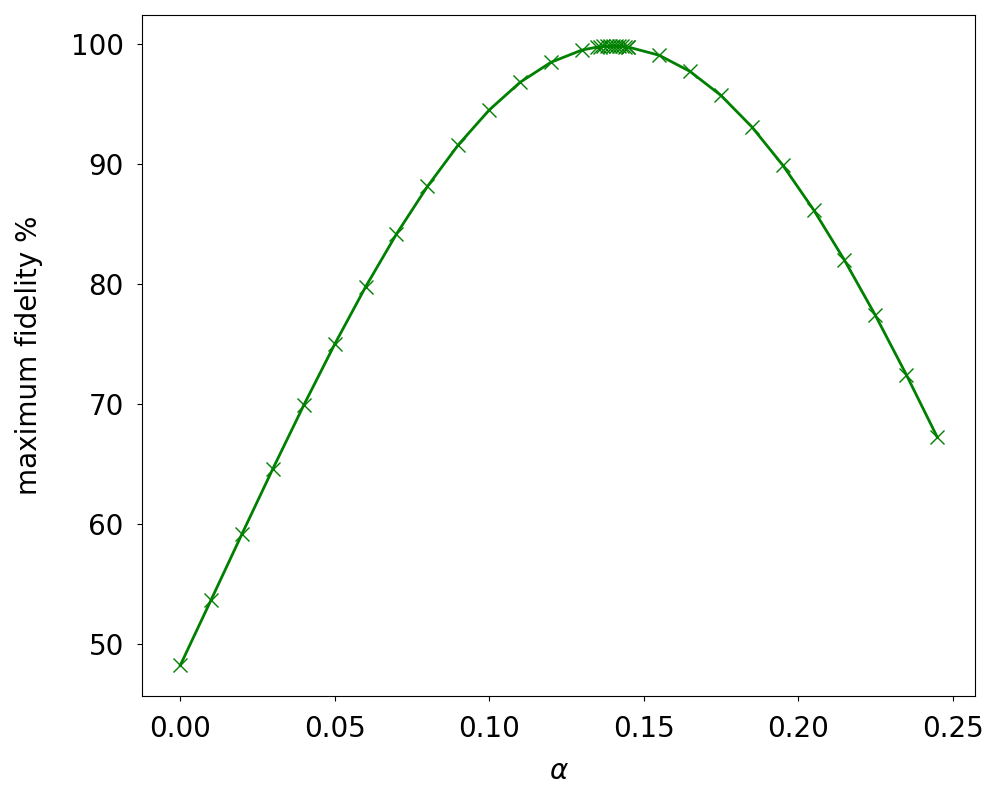
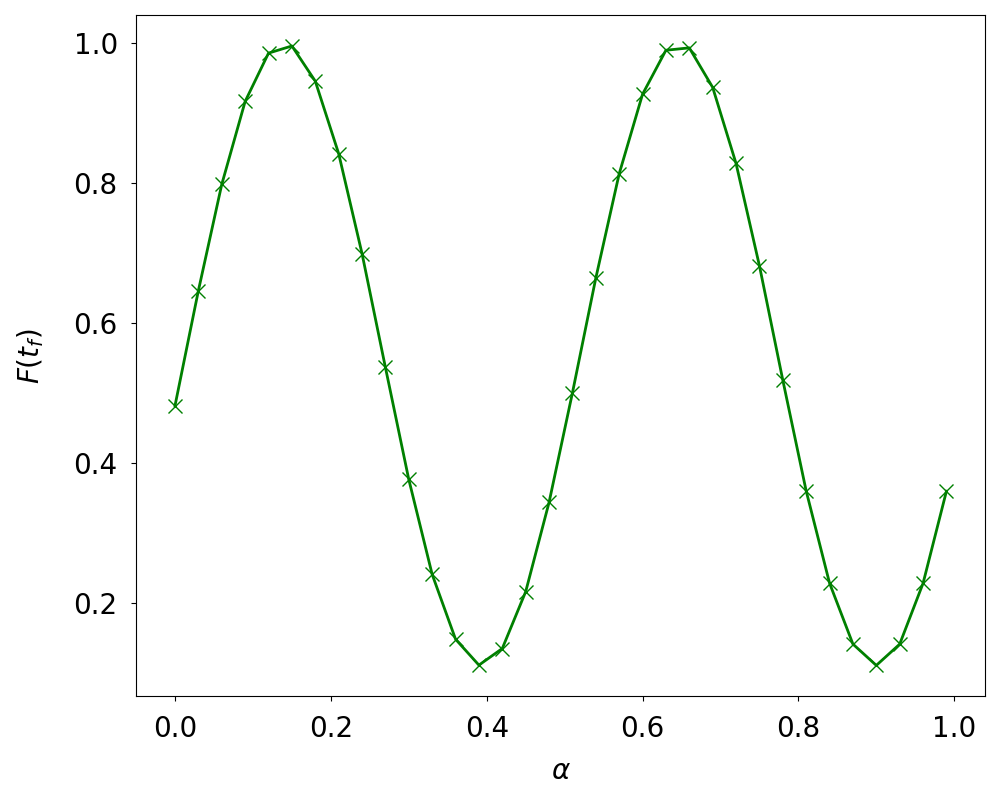
improving scaling benchmark

diff --git a/src/sites.py b/src/sites.py
@@ -25,25 +25,21 @@ with open("scaling2Excite.dat", "r") as f:
     for line in f:
         split = line.split()
         time2Excite.append(float(split[1]))
-with open("scaling3Excite.dat", "r") as f:
-    for line in f:
-        split = line.split()
-        time3Excite.append(float(split[1]))
 
 # Plot each line
-plt.plot(numSites, time1Excite, "-g^", ms=10, lw=2, label="1 excitation")
-plt.plot(numSites, time2Excite, "--b^", ms=10, lw=2, label="2 excitations")
-plt.plot(numSites, time3Excite, "-.r^", ms=10, lw=2, label="3 excitations")
+plt.plot(numSites, time1Excite, "-g^", ms=10, lw=2, label="1 excitation (left end to right end)")
+plt.plot(numSites, time2Excite, "--b^", ms=10, lw=2, label="2 excitations (both ends to both ends)")
 
 # Set the size of the axis ticks
 ax1.tick_params(axis='y', pad=10, labelsize=20)
 ax1.tick_params(axis='x', pad=10, labelsize=20)
 
 # Set the names of the axis labels
-plt.xlabel('number of sites', fontsize=20, color='black')
-plt.ylabel('time taken / s', fontsize=20, color='black')
-ax1.set_xlabel("number of sites", labelpad=10)
-ax1.set_ylabel("time taken / s", labelpad=20)
+plt.xlabel("", fontsize=20, color='black')
+plt.ylabel("", fontsize=20, color='black')
+plt.grid(True)
+ax1.set_xlabel("number of sites in linear chain", labelpad=10)
+ax1.set_ylabel("time taken to reach 95% fidelity / s", labelpad=20)
 
 # Add the legend
 l=legend(loc='upper left', ncol=1, fontsize=20)

diff --git a/src/alpha.py b/src/alpha.py
@@ -19,7 +19,7 @@ with open("eetest.dat", "r") as f:
     for line in f:
         split = line.split()
         alphas.append(float(split[0]))
-        fidsBefore.append(float(split[1][:-1]))
+        fidsBefore.append(float(split[1][:-1]) / 100.0)
         # fidsAfter.append(float(split[2][:-1]))
 
 # Plot each line
@@ -32,9 +32,9 @@ ax1.tick_params(axis='x', pad=10, labelsize=20)
 
 # Set the names of the axis labels
 plt.xlabel(r'$\alpha$', fontsize=20, color='black')
-plt.ylabel("maximum fidelity %", fontsize=20, color='black')
+plt.ylabel(r"$F(t_f)$", fontsize=20, color='black')
 ax1.set_xlabel(r"$\alpha$", labelpad=10)
-ax1.set_ylabel("maximum fidelity %", labelpad=20)
+ax1.set_ylabel(r"$F(t_f)$", labelpad=20)
 
 # Add the legend
 # l=legend(loc='lower right', ncol=1, fontsize=20)

diff --git a/src/scaling.py b/src/scaling.py
@@ -58,6 +58,7 @@ ax1.tick_params(axis='x', labelsize=20)
 # Set the names of the axis labels
 plt.xlabel('cores used', fontsize=20, color='black')
 plt.ylabel('speedup', fontsize=20, color='black')
+plt.grid(True)
 ax1.set_xlabel("cores used", labelpad=10)
 ax1.set_ylabel("speedup", labelpad=20)
 
